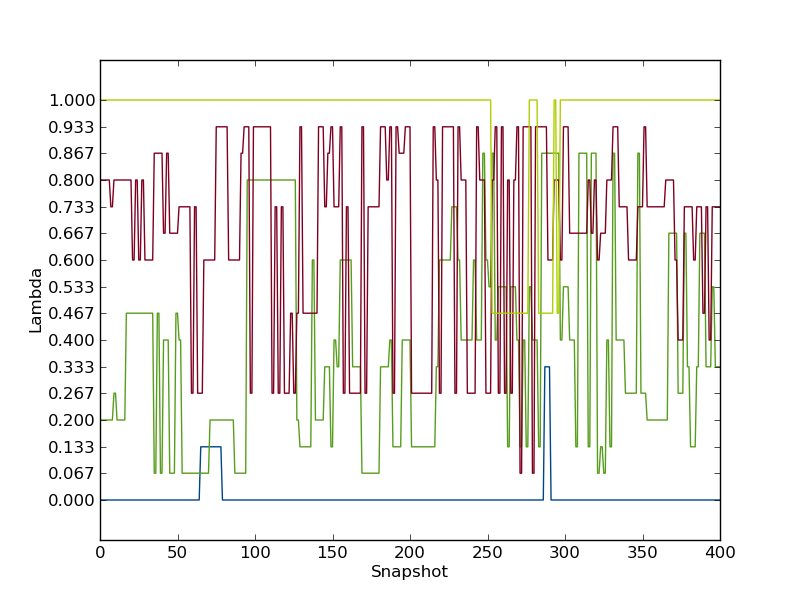
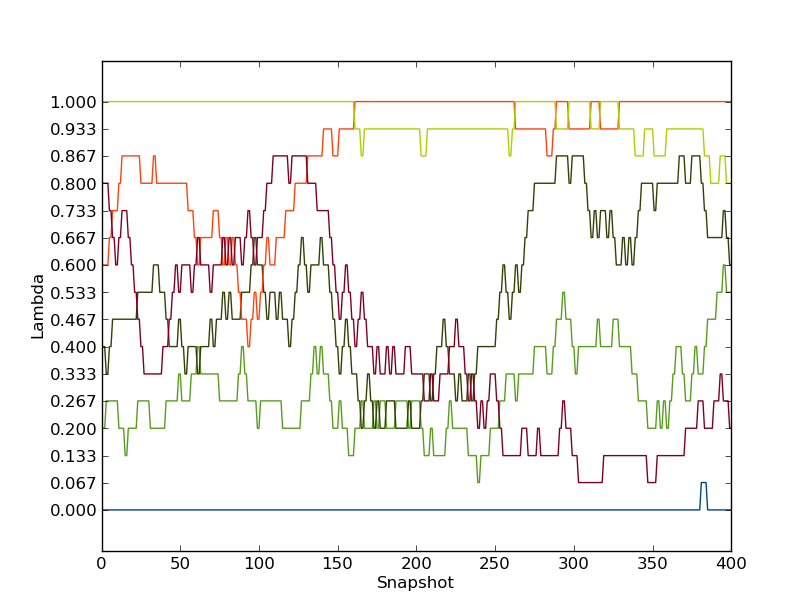
Corrected replica exchange picture, which has been produced with the fixed version of calc_replicapath.py.

diff --git a/tutorial/rel_binding/relative_binding.html b/tutorial/rel_binding/relative_binding.html
@@ -56,9 +56,9 @@ grep "lambda swaps" out_free/lam-0.000/info
 </pre>
 and this will give you the overall acceptance ratio of the &lambda; swaps. It should be around 50% for this perturbation, indicating that the overall effectiveness is acceptable. Next, we will look at individual replicas and see how they exchange &lambda;-value throughout the simulation. This can be done with
 <pre>
-python2.7 $PROTOMSHOME/tools/calc_replicapath.py -f out_free/lam-*/results -p 0.0 0.2 0.8 1.0 -o replica_path_free.png
+python2.7 $PROTOMSHOME/tools/calc_replicapath.py -f out_free/lam-*/results -p 0.0 0.2 0.4 0.6 0.8 1.0 -o replica_path_free.png
 </pre>
-<p>to plot the path of the first few &lambda;-values. It should look something like this.<br> <img src="replica_path_free.png" width="33%" height="33%" alt="" /><br> as is clear, these replicas were not able to traverse the full &lambda;-space within the simulation time. Also the replicas starting with &lambda;=1.0 or 0.0 did not exchange very much at all. Hence, the replica exchange was not fully efficient.</p>
+<p>to plot the path of the first few &lambda;-values. It should look something like this.<br> <img src="replica_path_free.png" width="33%" height="40%" alt="" /><br> as is clear, these replicas were not able to traverse the full &lambda;-space within the simulation time. Also the replicas starting with &lambda;=1.0 or 0.0 did not exchange very much at all. Hence, the replica exchange was not fully efficient.</p>
 <p>Now, we will estimate the free energy. We will do this both with thermodynamic integration, Bennett's acceptance ratio (BAR) and multistate BAR (MBAR). To do this you can type</p>
 <pre>
 python2.7 $PROTOMSHOME/tools/calc_dg.py -d out_free/ -s 10
